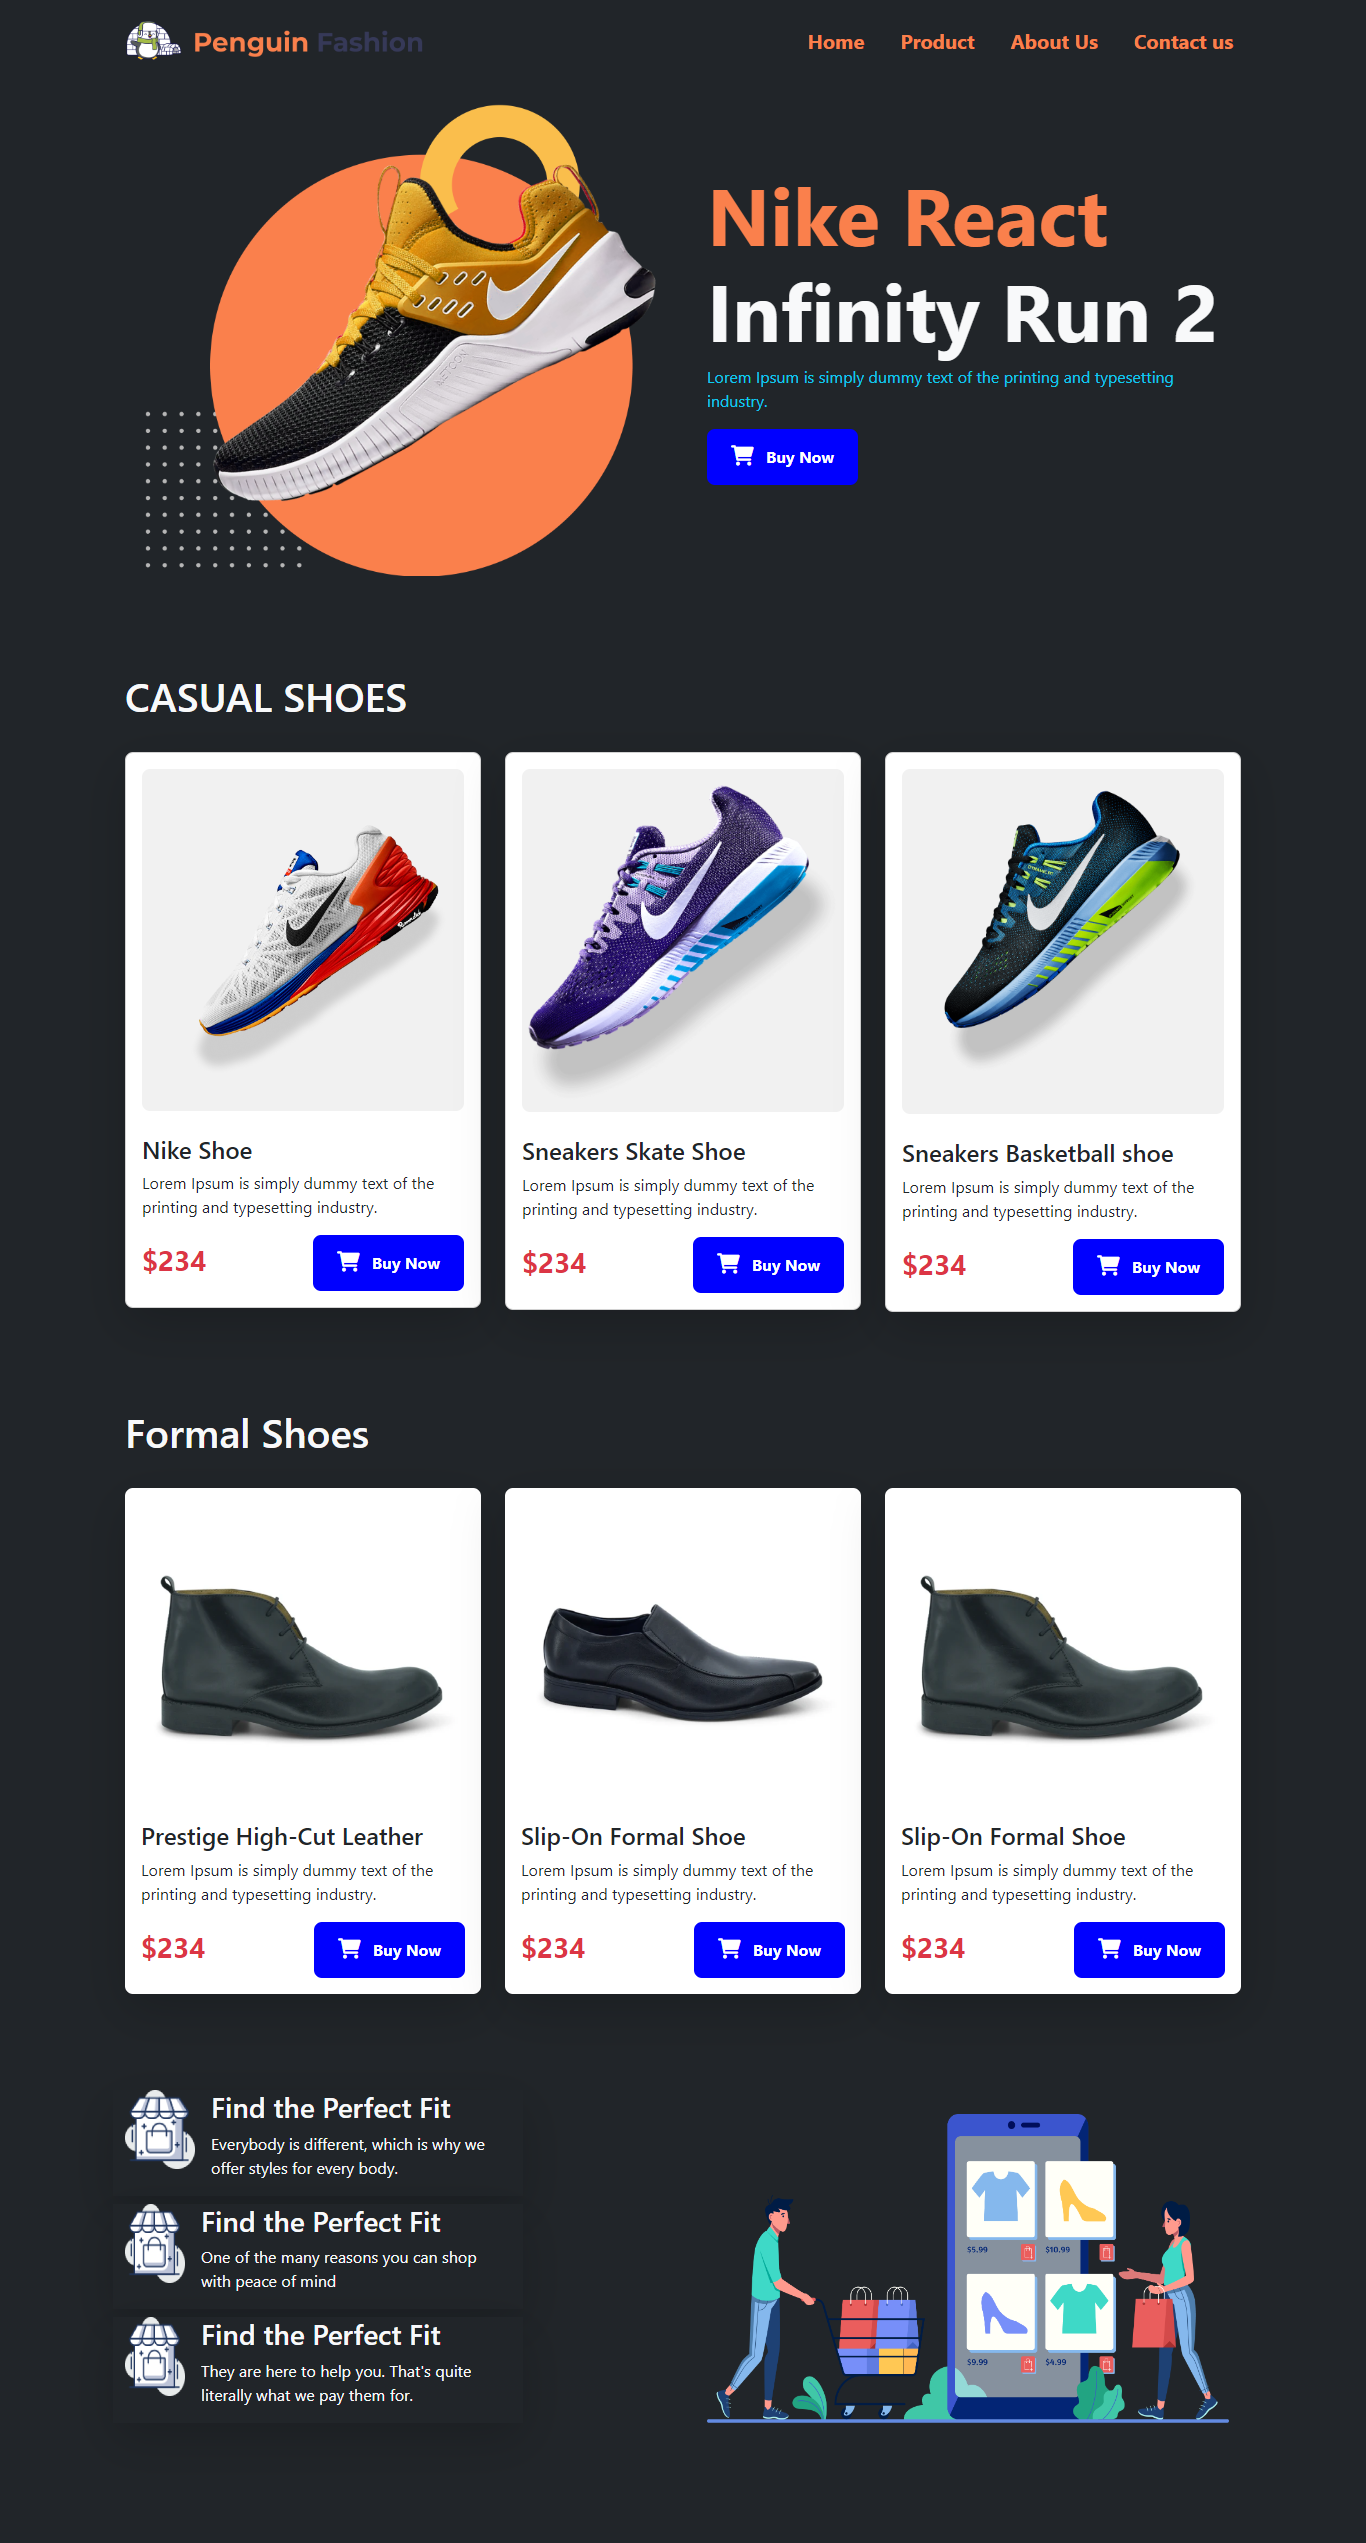
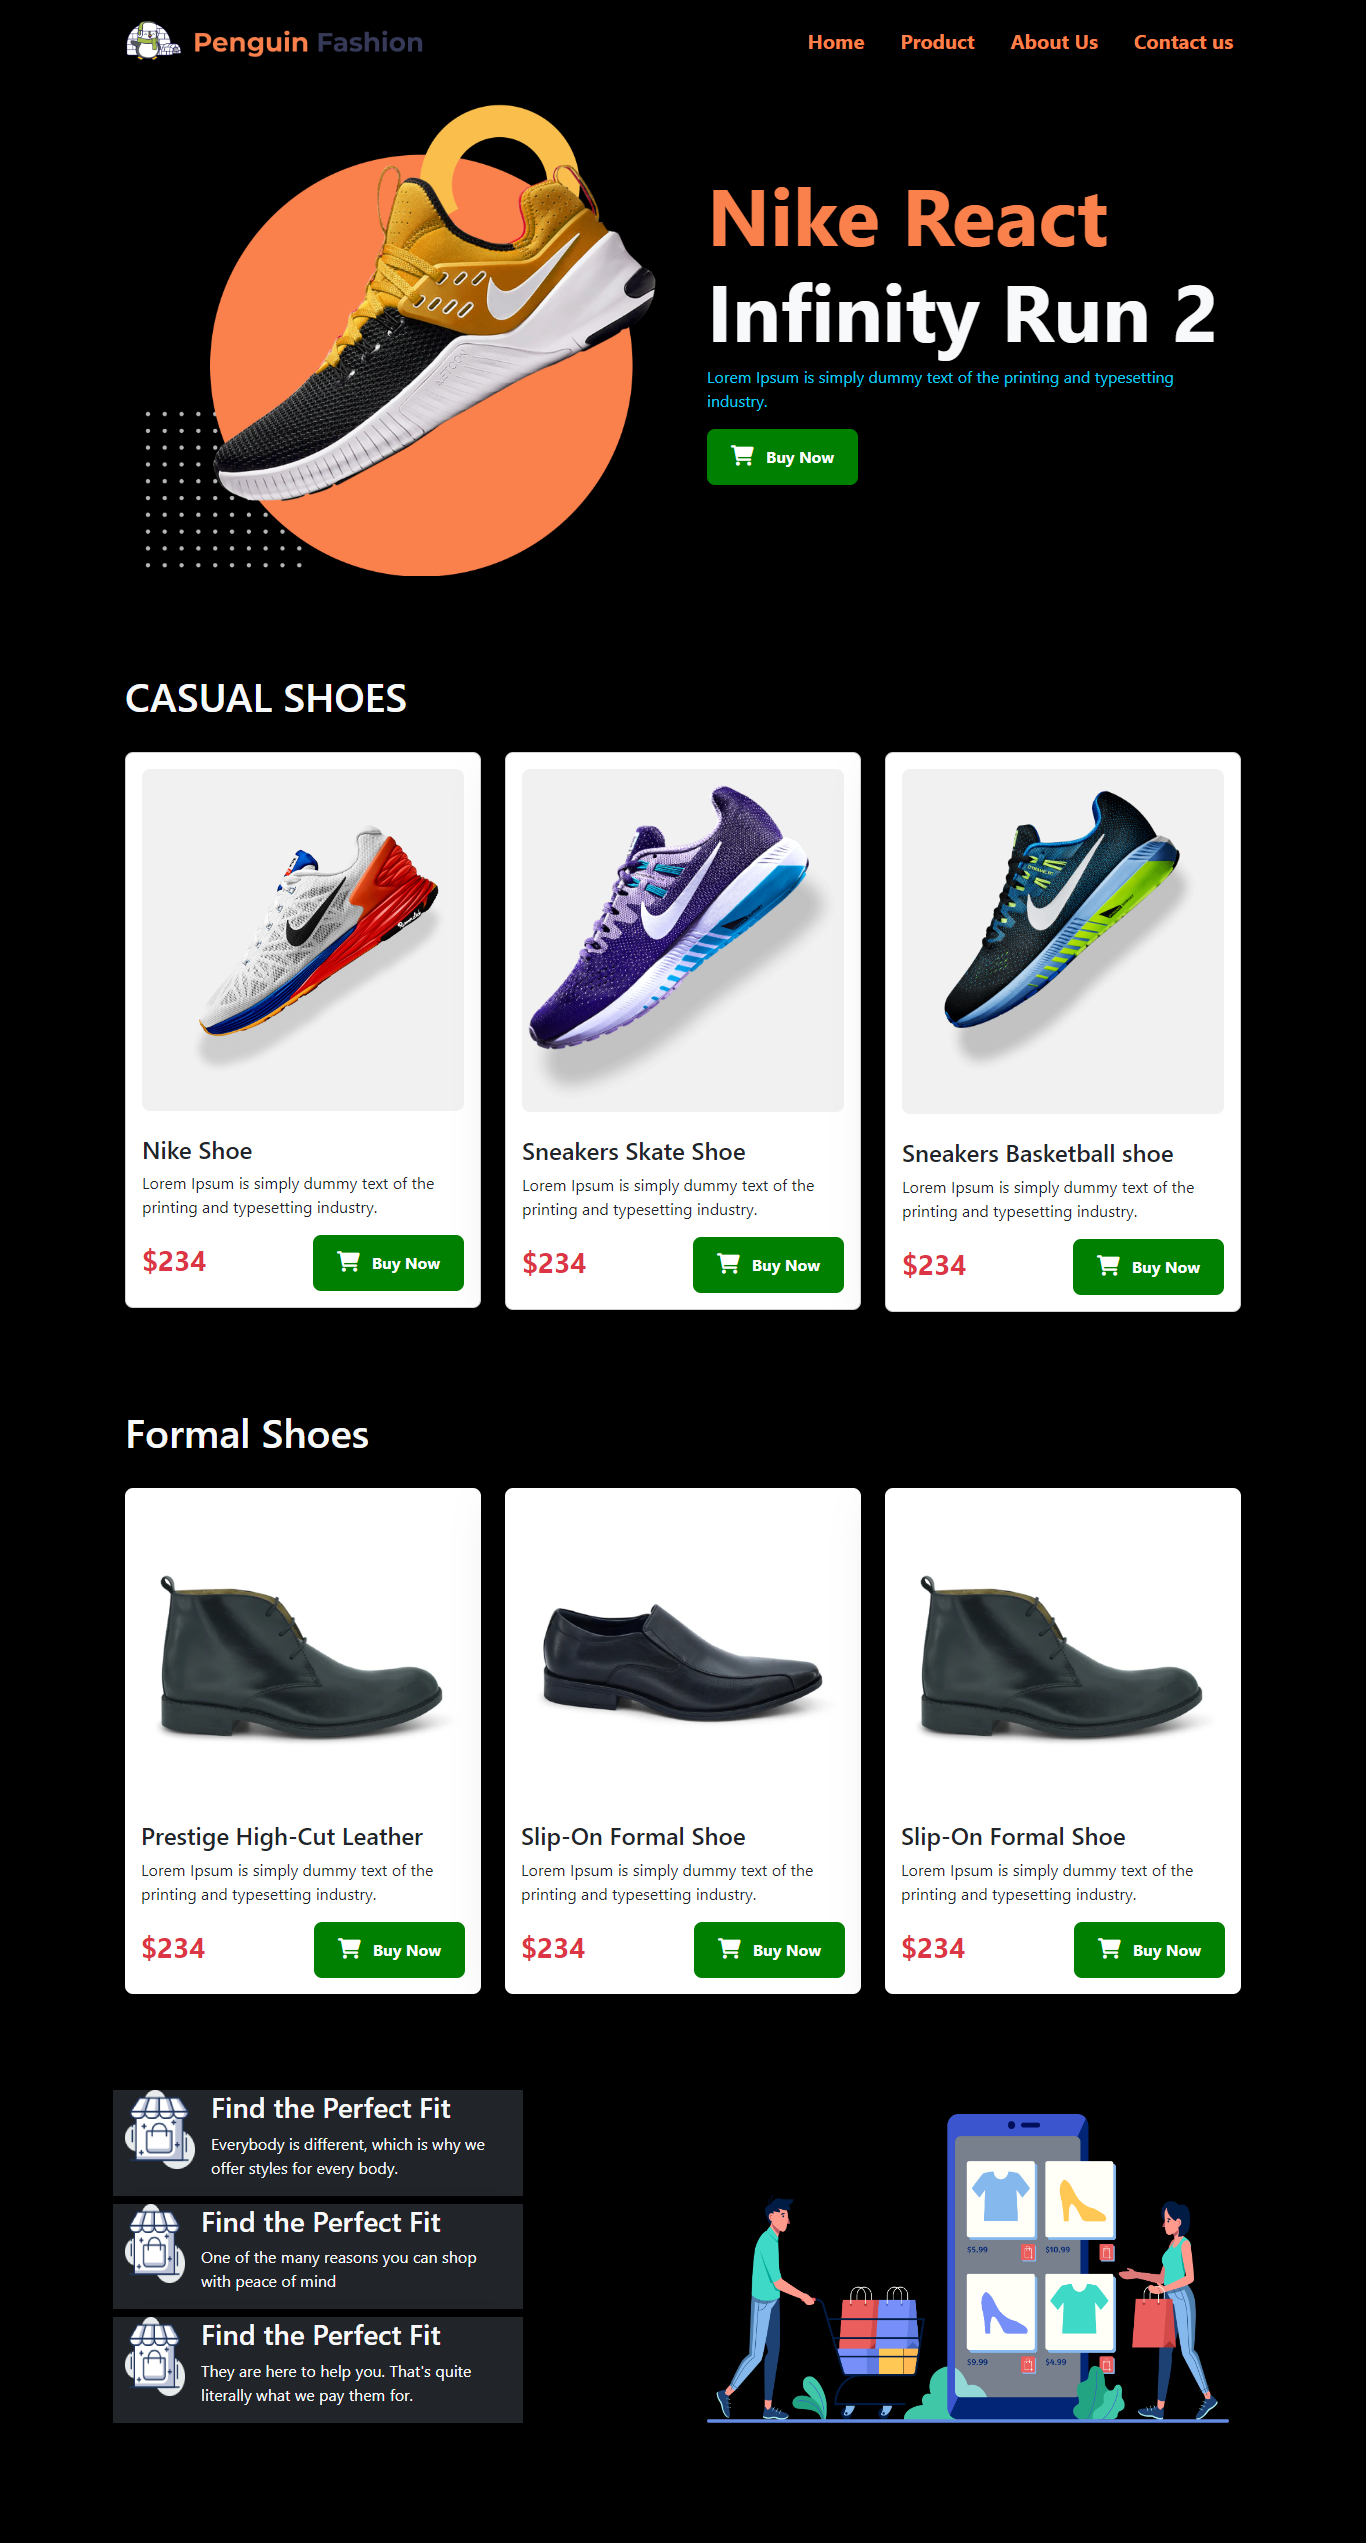
dkkdfkdfddf

diff --git a/index.html b/index.html
@@ -11,7 +11,7 @@
     <link rel="stylesheet" href="https://cdnjs.cloudflare.com/ajax/libs/font-awesome/6.1.2/css/all.min.css">
 </head>
 <body>
-    <header class="bg-dark pt-2">
+    <header class="pt-2">
        <section>
         <nav class="navbar navbar-expand-lg">
           <div class="container">
@@ -65,7 +65,7 @@
 
       <!-- .............Card Part style........... -->
 
-      <section class="bg-dark py-5">
+      <section class="py-5">
         <div class="container">
           <h1 class="text-light pb-4">CASUAL SHOES</h1>
           <div class="row">
@@ -114,7 +114,7 @@
 
       <!-- .............Card-1 Part Style.......... -->
 
-      <section class="bg-dark py-5">
+      <section class="py-5">
         <div class="container">
           <h1 class="text-light pb-4">Formal Shoes</h1>
           <div class="row">
@@ -164,7 +164,7 @@
       </section>
     </main>
 
-    <footer class="py-5 bg-dark">
+    <footer class="py-5">
       <div class="container mb-5">
         <div class="row">
           <div class="col-md-6">

diff --git a/css/style.css b/css/style.css
@@ -1,3 +1,7 @@
+
+body{
+    background-color: black;
+}
 .navbar .navbar-nav .nav-link{
     font-size: 20px;
     margin-left: 20px;
@@ -15,11 +19,14 @@ span{
     color: rgb(250, 128, 76);
 }
 button{
-    background-color: blue;
+    background-color: green;
     
 }
 button i{
     font-size: 20px;
+}
+button:hover{
+    background-color: blue;
 }
 
 /* ........card part style................. */
